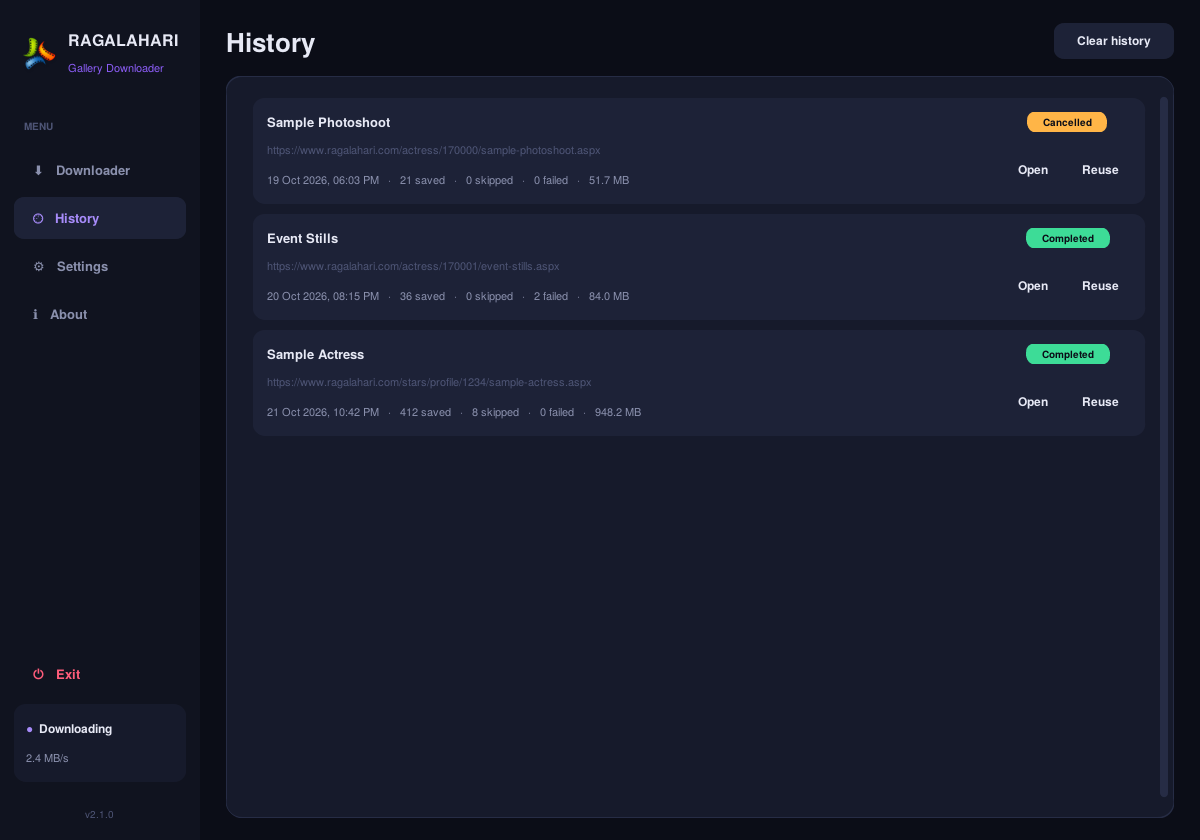
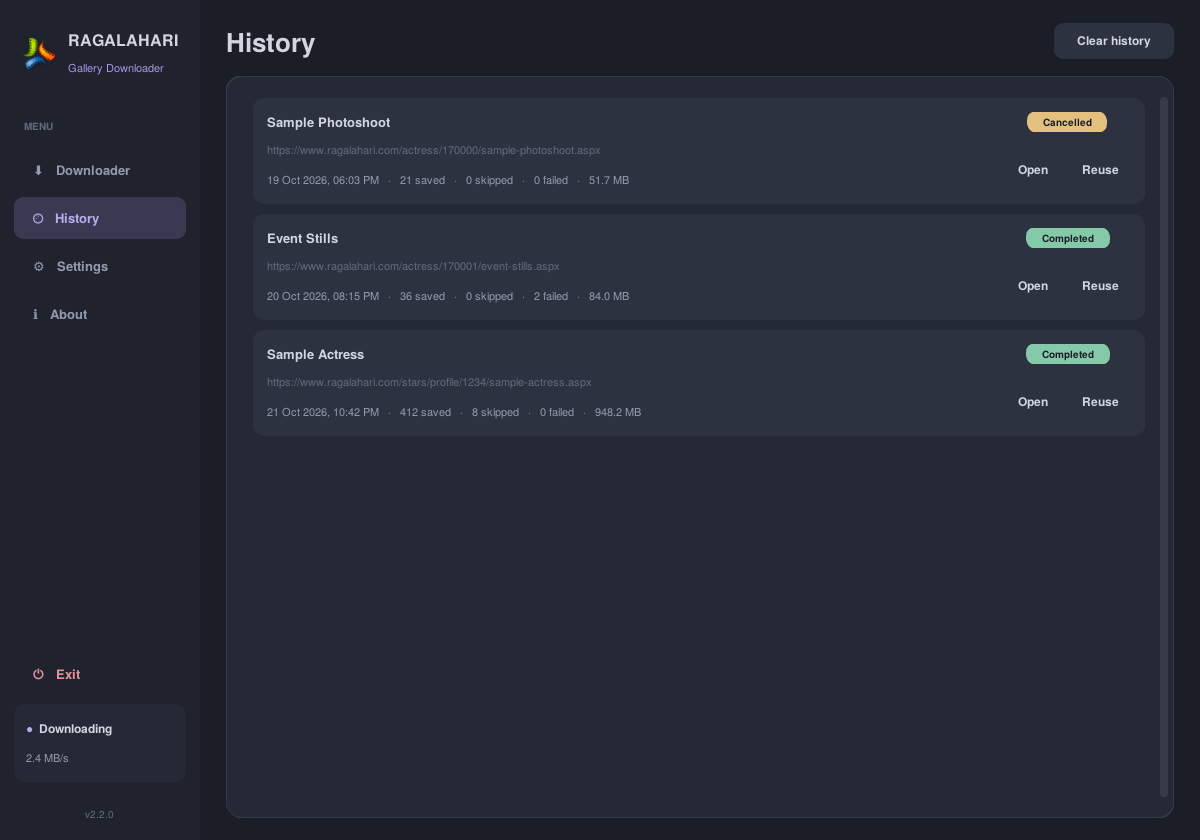
v2.2.0: new soft Aurora theme (default) with theme picker; Midnight kept as option
Claude-Session: https://claude.ai/code/session_01Gnhu1bbpZVw1kiNMMPmRpa

diff --git a/ragalahari_gui.py b/ragalahari_gui.py
@@ -194,7 +194,7 @@ import platform
 from datetime import datetime
 
 APP_NAME = "Ragalahari Gallery Downloader"
-APP_VERSION = "2.1.1"
+APP_VERSION = "2.2.0"
 IS_WINDOWS = platform.system() == "Windows"
 
 if IS_WINDOWS:
@@ -214,22 +214,58 @@ except Exception:
 FONT = "Segoe UI" if IS_WINDOWS else "Helvetica"
 MONO = "Consolas" if IS_WINDOWS else "Courier"
 
-# Base dark palette (deep cinematic navy) — accent colour is switchable in Settings
-BASE = {
-    "bg": "#0B0D17", "sidebar": "#10131F", "card": "#161A2B", "card_hi": "#1D2237",
-    "border": "#262C45", "input": "#0E1120", "text": "#E7E9F5", "muted": "#8A90AD",
-    "faint": "#4E5576", "ok": "#3DDC97", "warn": "#FFB547", "err": "#FF5C7A",
-    "info": "#5AB8FF", "dark_text": "#0B0D17",
+# Two dark base themes — picked in Settings. Accent colour is switchable on top of either.
+THEMES = {
+    # Soft, low-glare slate with pastel accents (default — easy on the eyes)
+    "Aurora": {
+        "bg": "#1B1E27", "sidebar": "#20232E", "card": "#252935", "card_hi": "#2D3240",
+        "border": "#363B4A", "input": "#1E212B", "text": "#D3D6E0", "muted": "#949AAE",
+        "faint": "#646A7E", "ok": "#84C9A8", "warn": "#E3C07D", "err": "#E3929F",
+        "info": "#8DB4DE", "dark_text": "#1B1E27", "on_accent": "#1B1E27",
+        "log_text": "#BFC4D3", "err_hover": "#EBA6B1", "warn_hover": "#EBCB91", "exit_hover": "#3A2E35",
+    },
+    # Deep navy with vivid accents (the original v2 look)
+    "Midnight": {
+        "bg": "#0B0D17", "sidebar": "#10131F", "card": "#161A2B", "card_hi": "#1D2237",
+        "border": "#262C45", "input": "#0E1120", "text": "#E7E9F5", "muted": "#8A90AD",
+        "faint": "#4E5576", "ok": "#3DDC97", "warn": "#FFB547", "err": "#FF5C7A",
+        "info": "#5AB8FF", "dark_text": "#0B0D17", "on_accent": "#FFFFFF",
+        "log_text": "#C9CEE8", "err_hover": "#FF7A92", "warn_hover": "#FFC56E", "exit_hover": "#3A1A26",
+    },
+}
+THEME_INFO = {
+    "Aurora": "Soft & calm — lower contrast, pastel colours",
+    "Midnight": "Bold & vivid — high contrast, bright colours",
 }
 
-ACCENTS = {
-    "Violet":  ("#8B5CF6", "#A78BFA"),
-    "Ocean":   ("#3B82F6", "#60A5FA"),
-    "Emerald": ("#10B981", "#34D399"),
-    "Sunset":  ("#F97316", "#FB923C"),
-    "Rose":    ("#EC4899", "#F472B6"),
-    "Gold":    ("#EAB308", "#FACC15"),
+ACCENT_SETS = {
+    "Aurora": {
+        "Violet":  ("#A496E8", "#B7ACF0"),
+        "Ocean":   ("#7EA6E3", "#97B8EA"),
+        "Emerald": ("#74C4A4", "#8FD1B6"),
+        "Sunset":  ("#E8A27C", "#EEB596"),
+        "Rose":    ("#E095B7", "#E8ABC7"),
+        "Gold":    ("#D9BC6E", "#E2CA88"),
+    },
+    "Midnight": {
+        "Violet":  ("#8B5CF6", "#A78BFA"),
+        "Ocean":   ("#3B82F6", "#60A5FA"),
+        "Emerald": ("#10B981", "#34D399"),
+        "Sunset":  ("#F97316", "#FB923C"),
+        "Rose":    ("#EC4899", "#F472B6"),
+        "Gold":    ("#EAB308", "#FACC15"),
+    },
 }
+
+BASE = dict(THEMES["Aurora"])
+ACCENTS = dict(ACCENT_SETS["Aurora"])
+
+
+def mix(c1, c2, t):
+    """Blend colour c1 into c2 by t (0..1)."""
+    a = [int(c1[i:i + 2], 16) for i in (1, 3, 5)]
+    b = [int(c2[i:i + 2], 16) for i in (1, 3, 5)]
+    return "#%02X%02X%02X" % tuple(round(x * t + y * (1 - t)) for x, y in zip(a, b))
 
 
 def detect_link_type(url):
@@ -296,7 +332,13 @@ class DownloaderApp(ctk.CTk):
     def __init__(self):
         super().__init__()
         self.load_config()
+        self.theme = self.config.get("base_theme") if self.config.get("base_theme") in THEMES else "Aurora"
+        BASE.clear()
+        BASE.update(THEMES[self.theme])
+        ACCENTS.clear()
+        ACCENTS.update(ACCENT_SETS[self.theme])
         self.accent, self.accent_hi = ACCENTS.get(self.config["accent"], ACCENTS["Violet"])
+        self.tint = mix(self.accent, BASE["card"], 0.16)  # soft accent glow for active items
 
         self.title(f"{APP_NAME}  ·  v{APP_VERSION}")
         self.geometry(self.config.get("geometry") or "1200x840")
@@ -347,6 +389,7 @@ class DownloaderApp(ctk.CTk):
             "threads": 3,
             "direct_dl": False,
             "accent": "Violet",
+            "base_theme": "Aurora",
             "open_when_done": False,
             "sound_when_done": True,
             "auto_paste": True,
@@ -588,7 +631,7 @@ class DownloaderApp(ctk.CTk):
 
         ctk.CTkButton(sb, text="  ⏻   Exit", anchor="w", height=40, corner_radius=10,
                       font=ctk.CTkFont(FONT, 13, "bold"), fg_color="transparent",
-                      hover_color="#3A1A26", text_color=BASE["err"],
+                      hover_color=BASE["exit_hover"], text_color=BASE["err"],
                       command=self.request_exit).pack(fill="x", padx=14, pady=(0, 10))
 
         status = ctk.CTkFrame(sb, fg_color=BASE["card"], corner_radius=12)
@@ -613,7 +656,7 @@ class DownloaderApp(ctk.CTk):
         self.pages[key].grid(row=0, column=0, sticky="nsew", padx=26, pady=22)
         for k, b in self.nav_buttons.items():
             if k == key:
-                b.configure(fg_color=BASE["card_hi"], text_color=self.accent_hi)
+                b.configure(fg_color=self.tint, text_color=self.accent_hi)
             else:
                 b.configure(fg_color="transparent", text_color=BASE["muted"])
         if key == "history":
@@ -629,10 +672,10 @@ class DownloaderApp(ctk.CTk):
 
     def _btn(self, master, text, cmd, kind="ghost", width=90, height=40):
         styles = {
-            "accent": (self.accent, self.accent_hi, "#FFFFFF"),
+            "accent": (self.accent, self.accent_hi, BASE["on_accent"]),
             "ghost": (BASE["card_hi"], BASE["border"], BASE["text"]),
-            "danger": (BASE["err"], "#FF7A92", "#FFFFFF"),
-            "warn": (BASE["warn"], "#FFC56E", BASE["dark_text"]),
+            "danger": (BASE["err"], BASE["err_hover"], BASE["on_accent"]),
+            "warn": (BASE["warn"], BASE["warn_hover"], BASE["dark_text"]),
         }
         fg, hv, tc = styles[kind]
         return ctk.CTkButton(master, text=text, command=cmd, width=width, height=height,
@@ -743,7 +786,7 @@ class DownloaderApp(ctk.CTk):
         ctrl.grid(row=0, column=0, sticky="ew", padx=18, pady=(16, 10))
         self.start_btn = ctk.CTkButton(ctrl, text="▶  START DOWNLOAD", height=48, width=200,
                                        corner_radius=12, fg_color=self.accent, hover_color=self.accent_hi,
-                                       text_color="#FFFFFF", font=ctk.CTkFont(FONT, 14, "bold"),
+                                       text_color=BASE["on_accent"], font=ctk.CTkFont(FONT, 14, "bold"),
                                        command=self.start_download_thread)
         self.start_btn.pack(side="left")
         self.pause_btn = self._btn(ctrl, "❚❚  Pause", self.toggle_pause, "ghost", 100, 48)
@@ -791,7 +834,7 @@ class DownloaderApp(ctk.CTk):
         self._btn(lhdr, "Clear", self.clear_log, "ghost", 54, 26).pack(side="right")
 
         self.log_box = ctk.CTkTextbox(left, state="disabled", font=ctk.CTkFont(MONO, 12),
-                                      fg_color=BASE["input"], text_color="#C9CEE8",
+                                      fg_color=BASE["input"], text_color=BASE["log_text"],
                                       corner_radius=12, border_width=0, wrap="word")
         self.log_box.grid(row=3, column=0, sticky="nsew", padx=18, pady=(0, 18))
         for tag, col in (("ok", BASE["ok"]), ("err", BASE["err"]), ("warn", BASE["warn"]),
@@ -892,17 +935,39 @@ class DownloaderApp(ctk.CTk):
         c1 = self._card(page)
         c1.grid(row=1, column=0, sticky="ew", pady=(0, 14))
         self._section_label(c1, "APPEARANCE").pack(anchor="w", padx=20, pady=(16, 8))
+        ctk.CTkLabel(c1, text="Theme", font=ctk.CTkFont(FONT, 13), text_color=BASE["text"]).pack(anchor="w", padx=20)
+        tr = ctk.CTkFrame(c1, fg_color="transparent")
+        tr.pack(fill="x", padx=20, pady=(8, 14))
+        for name in THEMES:
+            t = THEMES[name]
+            sel = name == self.theme
+            box = ctk.CTkFrame(tr, fg_color=t["bg"], corner_radius=14, border_width=2,
+                               border_color=self.accent if sel else BASE["border"])
+            box.pack(side="left", padx=(0, 12))
+            sw_row = ctk.CTkFrame(box, fg_color="transparent")
+            sw_row.pack(anchor="w", padx=14, pady=(12, 6))
+            for col in (t["sidebar"], t["card_hi"], ACCENT_SETS[name][self.config["accent"]][0], t["ok"], t["text"]):
+                ctk.CTkFrame(sw_row, fg_color=col, width=22, height=22, corner_radius=11).pack(side="left", padx=(0, 5))
+            ctk.CTkLabel(box, text=("✓  " if sel else "") + name, font=ctk.CTkFont(FONT, 13, "bold"),
+                         text_color=t["text"], anchor="w").pack(anchor="w", padx=14)
+            ctk.CTkLabel(box, text=THEME_INFO[name], font=ctk.CTkFont(FONT, 11),
+                         text_color=t["muted"], anchor="w").pack(anchor="w", padx=14, pady=(0, 10))
+            ctk.CTkButton(box, text="In use" if sel else "Use this theme", height=30, corner_radius=8,
+                          state="disabled" if sel else "normal",
+                          fg_color=t["card_hi"], hover_color=t["border"], text_color=t["text"],
+                          text_color_disabled=t["muted"], font=ctk.CTkFont(FONT, 12, "bold"),
+                          command=lambda n=name: self.set_theme(n)).pack(fill="x", padx=14, pady=(0, 12))
         ctk.CTkLabel(c1, text="Accent colour", font=ctk.CTkFont(FONT, 13), text_color=BASE["text"]).pack(anchor="w", padx=20)
         sw = ctk.CTkFrame(c1, fg_color="transparent")
         sw.pack(anchor="w", padx=20, pady=(8, 6))
         for name, (col, hi) in ACCENTS.items():
             sel = name == self.config["accent"]
             ctk.CTkButton(sw, text="✓" if sel else "", width=40, height=40, corner_radius=20,
-                          fg_color=col, hover_color=hi, text_color="#FFFFFF",
+                          fg_color=col, hover_color=hi, text_color=BASE["on_accent"],
                           border_width=3 if sel else 0, border_color=BASE["text"],
                           font=ctk.CTkFont(FONT, 14, "bold"),
                           command=lambda n=name: self.set_accent(n)).pack(side="left", padx=(0, 10))
-        ctk.CTkLabel(c1, text="Changing the accent restarts the window (settings are kept).",
+        ctk.CTkLabel(c1, text="Changing the theme or accent refreshes the window (settings are kept).",
                      font=ctk.CTkFont(FONT, 11), text_color=BASE["faint"]).pack(anchor="w", padx=20, pady=(0, 16))
 
         c2 = self._card(page)
@@ -944,10 +1009,15 @@ class DownloaderApp(ctk.CTk):
         self.attributes("-topmost", self.top_var.get())
         self.save_config()
 
-    def set_accent(self, name):
+    def set_theme(self, name):
+        self.set_accent(self.config["accent"], theme=name)
+
+    def set_accent(self, name, theme=None):
         if self.is_downloading:
             return self.toast("Can't change theme while downloading", "warn")
         self.config["accent"] = name
+        if theme:
+            self.config["base_theme"] = theme
         self.save_config()
         try:
             self.config["geometry"] = self.geometry()
@@ -992,11 +1062,11 @@ class DownloaderApp(ctk.CTk):
         if t is None:
             self.type_badge.configure(text="", fg_color="transparent")
         elif t == "profile":
-            self.type_badge.configure(text="👤  PROFILE · ALL GALLERIES", fg_color=self.accent, text_color="#FFFFFF")
+            self.type_badge.configure(text="👤  PROFILE · ALL GALLERIES", fg_color=self.accent, text_color=BASE["on_accent"])
         elif t == "gallery":
             self.type_badge.configure(text="🖼  SINGLE GALLERY", fg_color=BASE["info"], text_color=BASE["dark_text"])
         else:
-            self.type_badge.configure(text="⚠  NOT A RAGALAHARI LINK", fg_color=BASE["err"], text_color="#FFFFFF")
+            self.type_badge.configure(text="⚠  NOT A RAGALAHARI LINK", fg_color=BASE["err"], text_color=BASE["on_accent"])
 
     def toast(self, msg, kind="ok"):
         col = {"ok": BASE["ok"], "warn": BASE["warn"], "err": BASE["err"], "info": BASE["info"]}[kind]
@@ -1090,7 +1160,7 @@ class DownloaderApp(ctk.CTk):
         for i, u in enumerate(self.queue, 1):
             is_active = u == active
             r = ctk.CTkFrame(self.queue_frame, corner_radius=10,
-                             fg_color=BASE["card_hi"] if is_active else BASE["card"],
+                             fg_color=self.tint if is_active else BASE["card"],
                              border_width=1 if is_active else 0, border_color=self.accent)
             r.pack(fill="x", pady=3, padx=2)
             t = detect_link_type(u)
@@ -1203,14 +1273,14 @@ class DownloaderApp(ctk.CTk):
         if running:
             self.start_btn.configure(state="disabled", fg_color=BASE["card_hi"], text_color=BASE["muted"],
                                      text="⏳  DOWNLOADING…")
-            self.stop_btn.configure(state="normal", fg_color=BASE["err"], hover_color="#FF7A92", text_color="#FFFFFF")
+            self.stop_btn.configure(state="normal", fg_color=BASE["err"], hover_color=BASE["err_hover"], text_color=BASE["on_accent"])
             self.pause_btn.configure(state="normal", text="❚❚  Pause")
             self.retry_btn.pack_forget()
             self.sb_dot.configure(text_color=self.accent_hi)
             self.sb_state.configure(text="Downloading")
             self.header_status.configure(text="Working…")
         else:
-            self.start_btn.configure(state="normal", fg_color=self.accent, text_color="#FFFFFF",
+            self.start_btn.configure(state="normal", fg_color=self.accent, text_color=BASE["on_accent"],
                                      text="▶  START DOWNLOAD")
             self.stop_btn.configure(state="disabled", fg_color=BASE["card_hi"], text_color=BASE["muted"])
             self.pause_btn.configure(state="disabled", text="❚❚  Pause")

diff --git a/Readme.md b/Readme.md
@@ -62,7 +62,7 @@
 | ⏭ **Skips duplicates** | Photos you already have are skipped, so you can re-run a profile to pick up new galleries. |
 | 🗂 **History** | Every finished job is listed with counts and size, plus *Open folder* and *Reuse link* buttons. |
 | 🧩 **System tray** | Close the window and it keeps downloading in the tray, then notifies you when it's done. |
-| 🎨 **Themes** | Six accent colours on a dark interface that's easy on the eyes. |
+| 🎨 **Two dark themes** | **Aurora** (soft, low-glare, the default) and **Midnight** (bold and vivid), each with six accent colours. |
 | 💾 **Remembers everything** | Save folder, speed, theme, options and window size are kept between sessions. |
 | 🧳 **Portable** | One `.exe`. Settings live in a small file next to it, so you can carry it on a USB drive. |
 
@@ -159,6 +159,7 @@ Older galleries on the site often show **broken image icons** because of dead li
 
 | Setting | What it does |
 |---|---|
+| **Theme** | **Aurora**: soft and calm, lower contrast, pastel colours (default). **Midnight**: bold and vivid, high contrast. |
 | **Accent colour** | Violet, Ocean, Emerald, Sunset, Rose or Gold. |
 | **Open folder when finished** | Opens the save folder automatically after each job. |
 | **Play sound when finished** | A short chime when downloads complete. |
@@ -247,6 +248,11 @@ You never have to build the EXE by hand. The [**Build portable EXE & publish rel
 ---
 
 ## 📝 Changelog
+
+**v2.2.0**
+- New default **Aurora** theme: softer, low-glare dark colours that are easier on the eyes
+- Theme picker in Settings (switch back to the original **Midnight** look any time)
+- Active menu and queue items get a soft accent glow
 
 **v2.1.1**
 - Title bar (minimise / maximise / close) now matches the app's dark theme and accent colour
